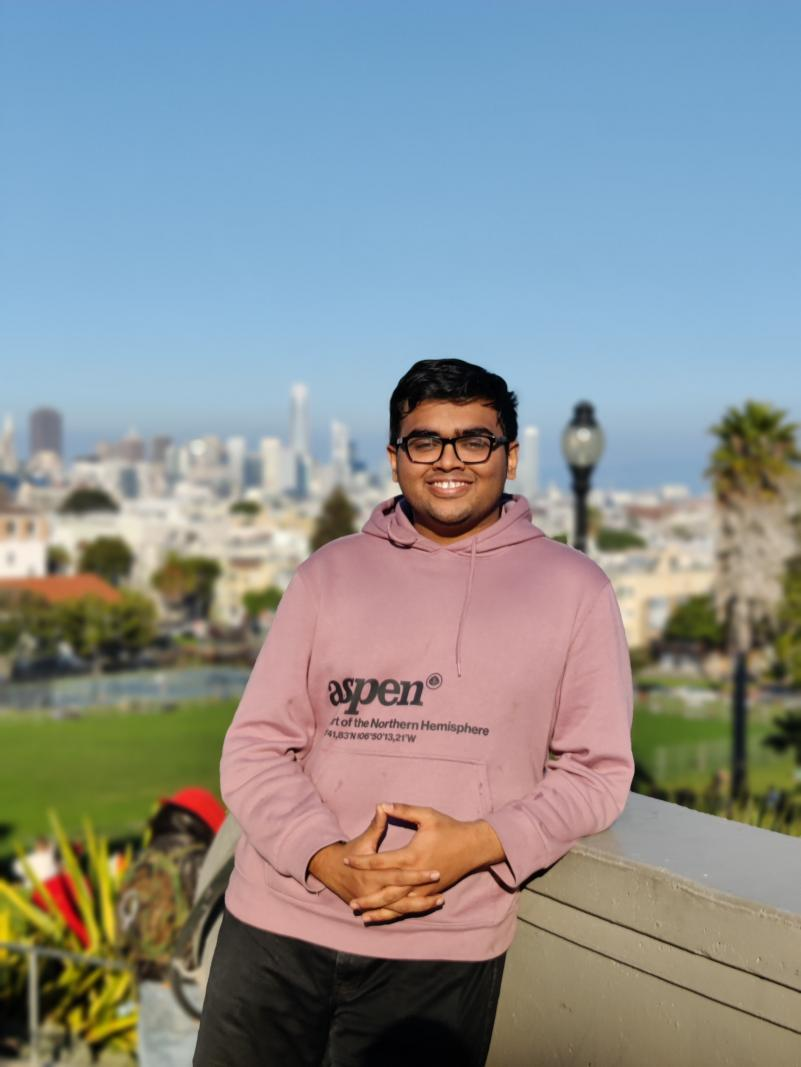
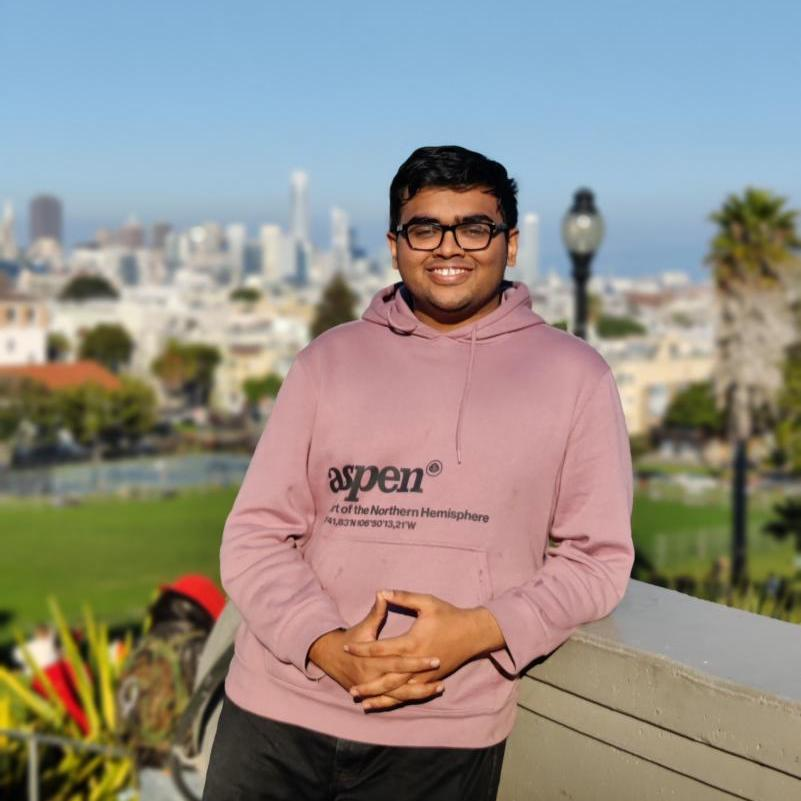
sp22 officers page, update oh bios

diff --git a/about/officers/sp22.html b/about/officers/sp22.html
@@ -1,0 +1,13 @@
+---
+layout: officers
+title: Spring 2022 Officers
+section_id: about
+
+custom_css:
+  - officers.css
+  - shared.css
+
+current-semester: sp22-officers
+previous-semester: fa21-officers
+next-semester: fa22-officers
+---

diff --git a/about/officers/index.html b/about/officers/index.html
@@ -7,6 +7,6 @@ custom_css:
   - officers.css
   - shared.css
 
-current-semester: fa21-officers
-previous-semester: sp21-officers
+current-semester: sp22-officers
+previous-semester: fa21-officers
 ---

diff --git a/css/officers.css b/css/officers.css
@@ -36,7 +36,7 @@
 }
 
 .officer img {
-  width:250;
+  width:250px;
   height:250px;
   object-fit:cover;
 }
